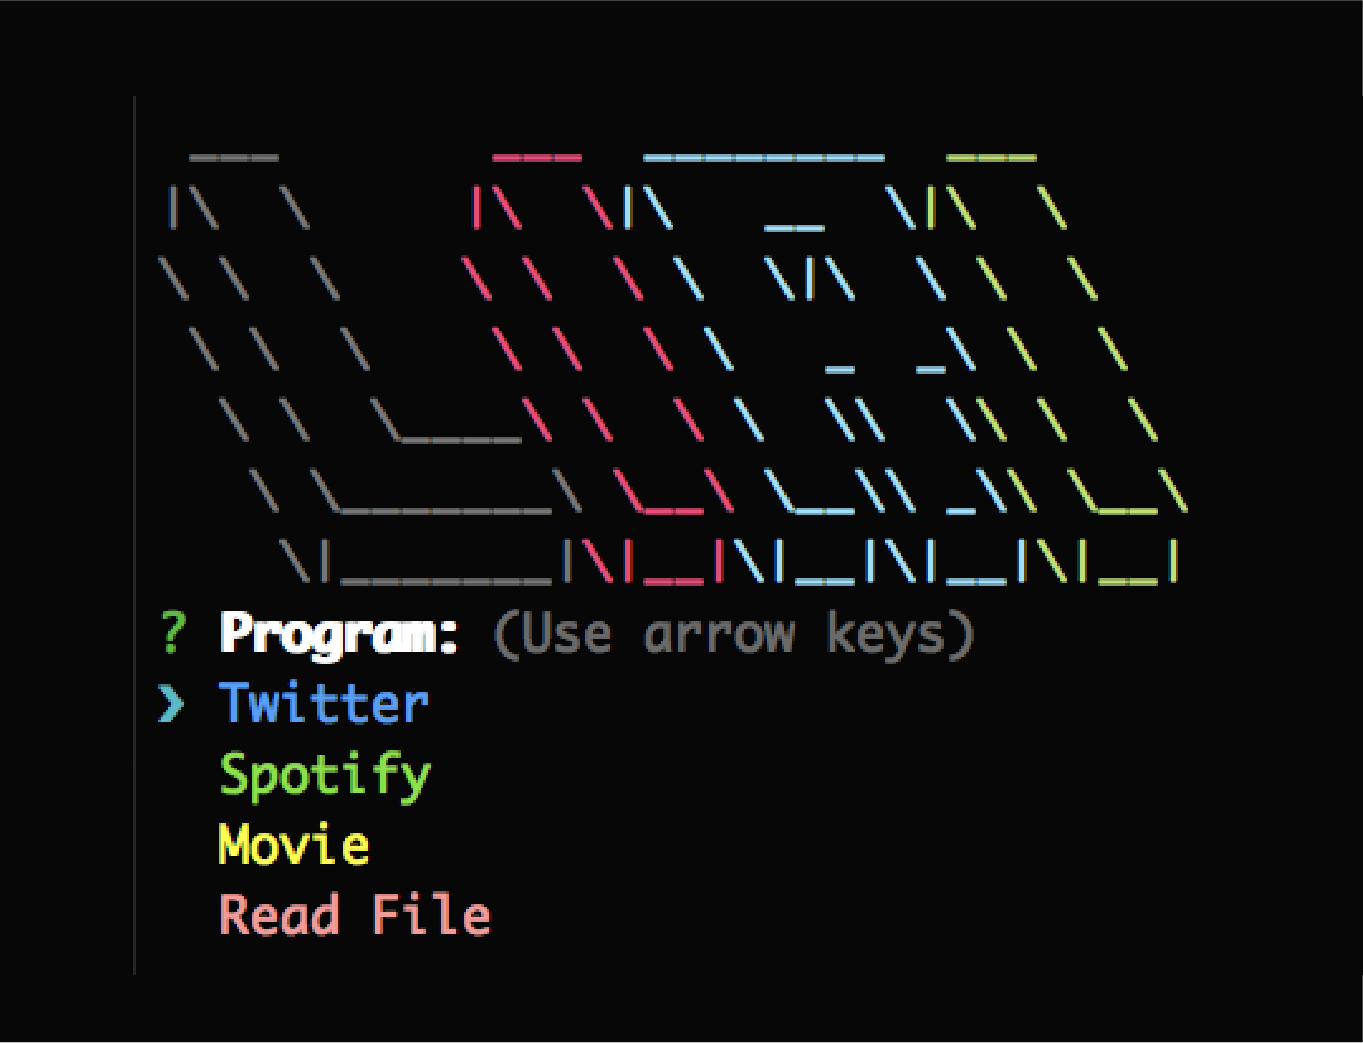
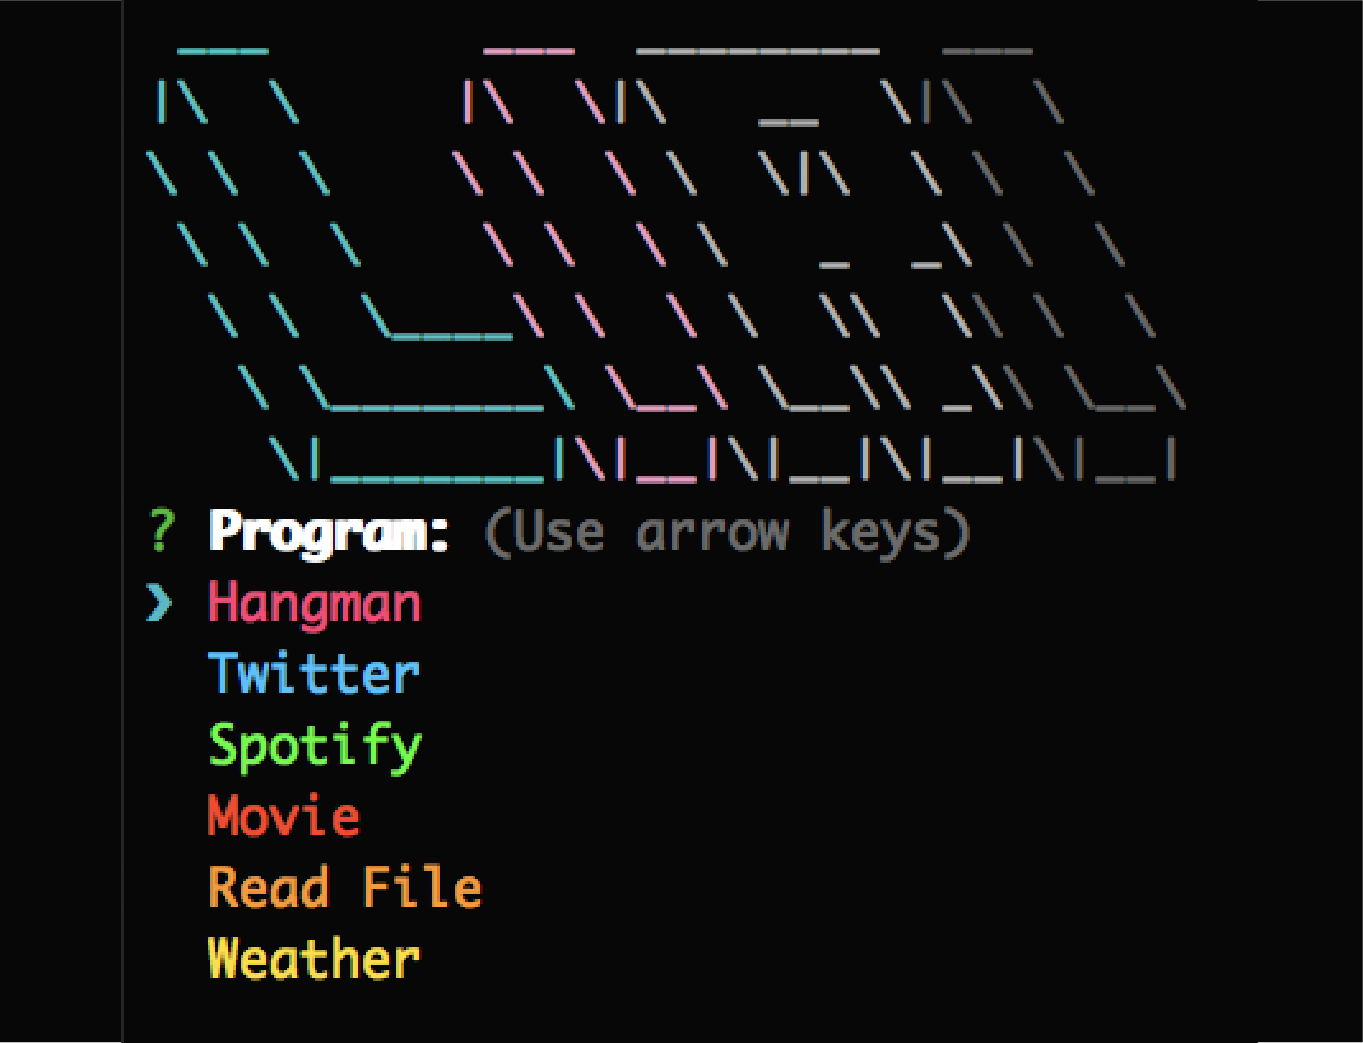
update project 7 portfolio

diff --git a/portfolio.html b/portfolio.html
@@ -101,7 +101,7 @@
                   <li class="list-group-item p-1 text-center">
                     <a class="btn btn-outline-secondary" href="https://github.com/jstudenski/liri-node-app" target="_blank"><i class="fa fa-github fa-lg"></i></a>
                   </li>
-                  <li class="list-group-item bg-light border-0">A command line node app that takes in parameters and gives you back data.</li>
+                  <li class="list-group-item bg-light border-0">A command line node app that takes in parameters and gives you back data. And play hangman too!</li>
                   <li class="list-group-item bg-dark text-center p-1 pb-2"> <span class="badge badge-pill badge-success">Node.js</span></li>
                 </ul>
               </div><!-- card -->
